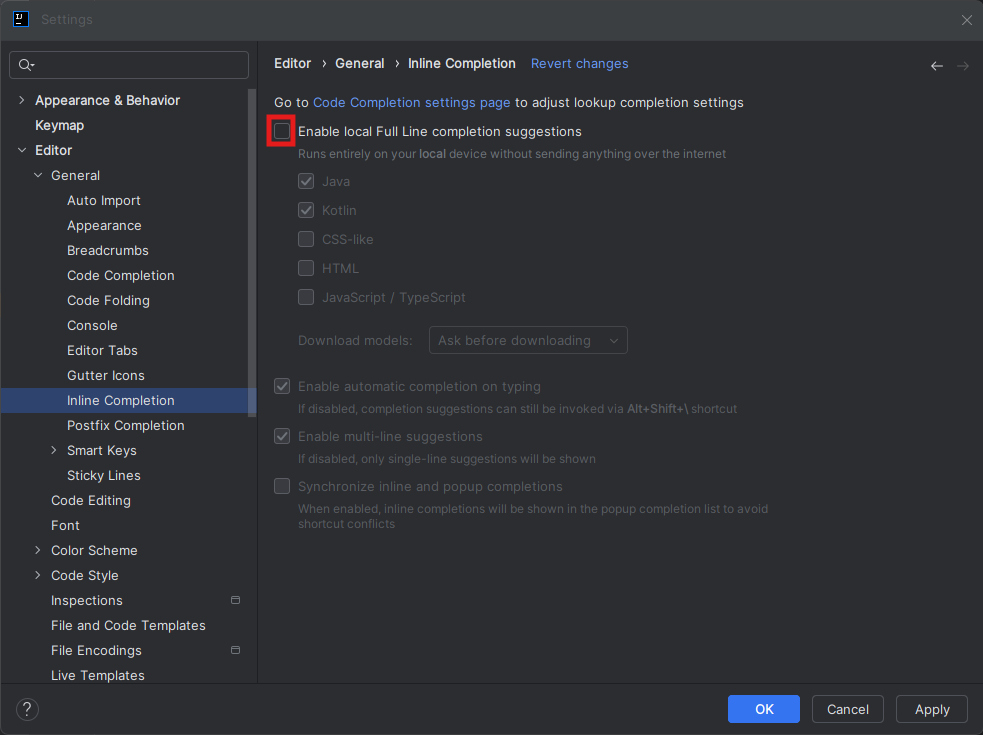
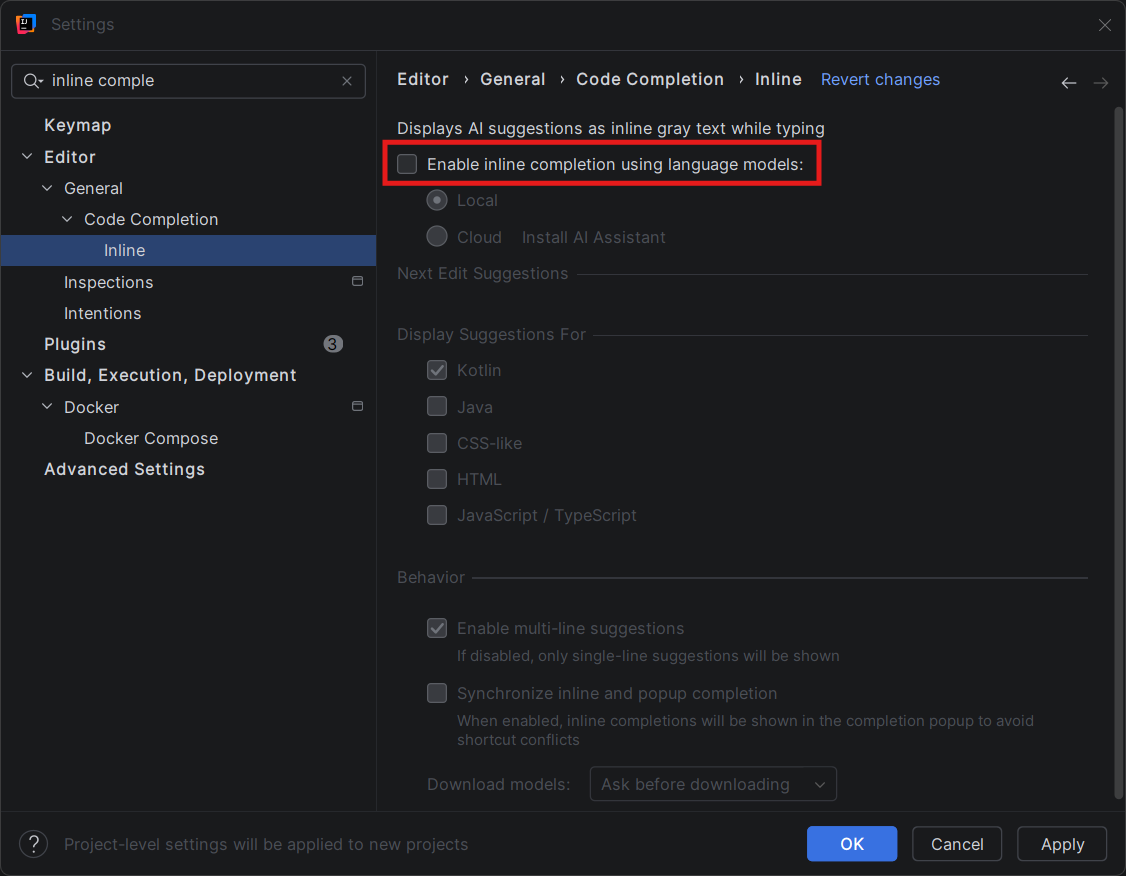
wijzigingen in intellij-menu's

diff --git a/intellij-configuratie/intellij-workspace.md b/intellij-configuratie/intellij-workspace.md
@@ -2,7 +2,7 @@
 ---
 # Je workspace instellen
 
-Maak een nieuwe folder, bv. `Documenten\OOSDII\intellij-workspace-2526`, die je als workspace zal gebruiken. Bedoeling is om je nieuwe aangemaakte projecten en/of startprojecten hierin op te slaan.  Zo zijn alle projecten samen gegroepeerd en makkelijk terug te vinden. Je kan eventueel nog een verdere indeling per hoofdstuk maken.
+Maak een nieuwe folder, bv. `Documenten\OOSDII\intellij-workspace-2627`, die je als workspace zal gebruiken. Bedoeling is om je nieuwe aangemaakte projecten en/of startprojecten hierin op te slaan.  Zo zijn alle projecten samen gegroepeerd en makkelijk terug te vinden. Je kan eventueel nog een verdere indeling per hoofdstuk maken.
 
 Om ervoor te zorgen dat jouw workspace standaard geopend wordt, kun je in "Default project directory" het pad van je workspace instellen. Open het **Settings** menu met `Ctrl+Alt+S`. Ga naar **Appearance & Behavior** > **System Settings** en kopieer het pad van je net gemaakte map naar de instelling **Default project directory**:
 

diff --git a/scenebuilder-installatie/scenebuilder-installatie.md b/scenebuilder-installatie/scenebuilder-installatie.md
@@ -4,16 +4,8 @@
 
 Ga naar <https://gluonhq.com/products/scene-builder/>
 
-Download de juiste versie voor je besturingssysteem:
+Download de installer en voer deze uit.
 
-![scenebuilder-download.png](screenshots/scenebuilder-download.png)
+Voorbeeld van een geslaagde installatie onder `AppData` op Windows:
 
-Maak een nieuwe map, bv. `C:\Program Files\SceneBuilder24`
-
-Open de installer en volg de stappen, kies je map als Destination Folder:
-
-![scenebuilder-mapselecteren.png](screenshots/scenebuilder-mapselecteren.png)
-
-Na installatie:
-
-![scenebuilder-in-map.png](screenshots/scenebuilder-in-map.png)
+![scenebuilder-in-default-folder.png](screenshots/scenebuilder-in-default-folder.png)

diff --git a/jdk/jdk.md b/jdk/jdk.md
@@ -1,12 +1,14 @@
 ---
 ---
-# Installatie JDK 21
+# Installatie JDK 25
 
-Installeer de Java Development Kit versie 21. Installatiebestanden voor Linux, macOS en Windows zijn beschikbaar via deze link:
+Installeer de Java Development Kit versie 25. Installatiebestanden voor Linux, macOS en Windows zijn beschikbaar via deze link:
 
 <https://www.oracle.com/europe/java/technologies/downloads/#java21>
 
-Download de gepaste installer en voer uit. Voorbeeld van de installatie op Windows:
+Download de gepaste **Installer** en voer uit. 
+
+Voorbeeld van een geslaagde installatie onder `Program Files` op Windows:
 
 ![](screenshots/jdk-installatie-mappen-windows.png)
 

diff --git a/intellij-configuratie/intellij-inline-completion.md b/intellij-configuratie/intellij-inline-completion.md
@@ -6,7 +6,7 @@ Tijdens het maken van oefeningen en op het examen is het gebruik van inline comp
 
 Start IntelliJ op. Open het **Settings** menu met `Ctrl+Alt+S`.
 
-Editor > General > Inline Completion > Enable local Full Line completion suggestions **uitschakelen**:
+Editor > General > Code Completion > Inline > Enable inline completion... **uitschakelen**:
 
 ![](screenshots/inline-completion-UIT.png)
 

diff --git a/intellij-installatie/intellij-installatie.md b/intellij-installatie/intellij-installatie.md
@@ -99,6 +99,8 @@ De eerste keer dat je IntelliJ opent, verschijnt een activatiescherm. Klik op **
 
 ![](screenshots/intellij-1.png)
 
+Als dit niet vanzelf verschijnt, kun je ook links onderaan op het tandwiel klikken > **Manage Licenses...**
+
 Klik op **Log in to JetBrains Account**. Er opent een browservenster.
 
 ![](screenshots/intellij-2.png)
